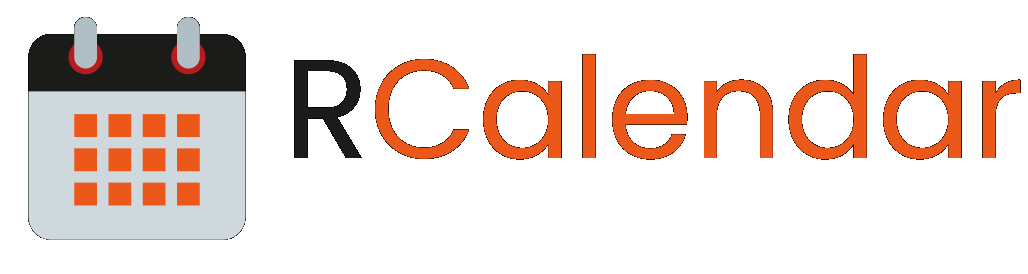
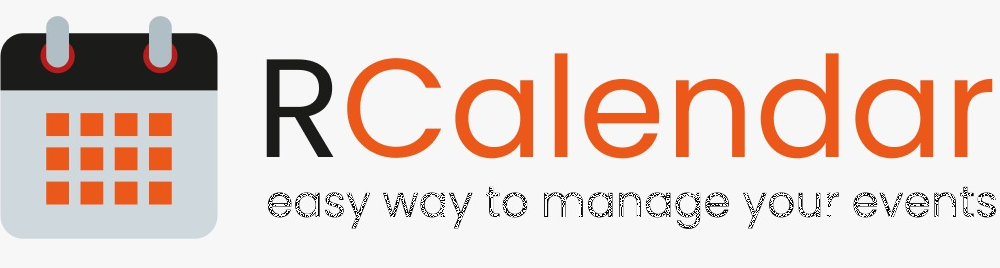
README.md

Changed region(s): [[0.0, 0.0597, 1.0, 0.8955]]

diff --git a/README.md b/README.md
@@ -1,7 +1,3 @@
 # RCalendar
 
-<<<<<<< HEAD
 ![RCalendarLogo](branding.png)
-=======
-![RCalendarLogo](./assets/img/logo.svg)
->>>>>>> c12e20040c18197668ae1c03645fd07b4776d1e0
